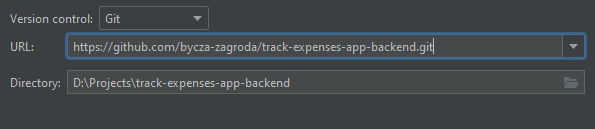
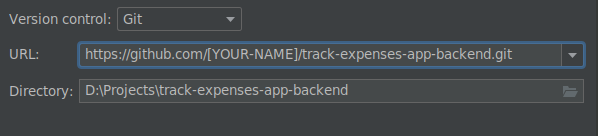
changes to the resolve conflict section

diff --git a/docs/githubwork/GITHUB_WORK.md b/docs/githubwork/GITHUB_WORK.md
@@ -35,11 +35,11 @@
 
 ## Local repository
 
-1. Clone repository with
+1. Clone from your repository with (in the examples we use the http method)
 
 ### Git
 
-`git clone https://github.com/bycza-zagroda/track-expenses-app-backend.git`
+`git clone https://github.com/[YOUR-GITHUB-NAME]/[REPOSITORY-NAME].git`
 
 ### IntelliJ IDEA
 
@@ -93,17 +93,18 @@ Additionally, If this is code review, commit should start: "code review: message
 
 ### For developers
 Before commit your changes you should resolve conflicts with upstream develop if any.
-1. Check if you have set up upstream.
+1. Check that you have set up upstream.
 ```shell
-mirek@dom:/tmp/fork-upstream-repository$ git remote -v
-origin  git@github.com:mirekgab/fork-upstream-repository.git (fetch)
-origin  git@github.com:mirekgab/fork-upstream-repository.git (push)
-upstream        https://github.com/mirekgab1/upstream-repository.git (fetch)
-upstream        https://github.com/mirekgab1/upstream-repository.git (push)
+git remote -v
+
+origin  git@github.com:[YOUR-GITHUB-NAME]/[REPOSITORY-NAME].git (fetch)
+origin  git@github.com:[YOUR-GITHUB-NAME]/[REPOSITORY-NAME].git (push)
+upstream        https://github.com/bycza-zagroda/[REPOSITORY-NAME].git (fetch)
+upstream        https://github.com/bycza-zagroda/[REPOSITORY-NAME].git (push)
 ```
-If you don't see the upstream repository execute the following command (you have to use bycza-zagroda repository.):
+If you don't see the upstream repository, execute the following command (as `upstream-repository` you should use `track-expenses-app-backend` or `track-expenses-app-frontend`):
 ```shell
-git remote add upstream https://github.com/mirekgab1/upstream-repository.git
+git remote add upstream https://github.com/bycza-zagroda/[REPOSITORY-NAME].git
 ```
 2. Fetch upstream branch.
 ```shell
@@ -113,19 +114,20 @@ git fetch upstream
 ```shell
 git checkout develop
 ```
-4. Merge upstream/develop into your local develop.
+4. Merge upstream/develop into your local develop, next update develop branch in fork repository.
 ```shell
 git merge upstream/develop
+git push origin develop
 ```
 5. Checkout to your fork's local branch - in this case, we use `feature/1-feature-name`
 ```shell
 git checkout feature/1-feature-name
 ```
-6. Merge the changes from the upstream develop branch into your local `feature/1-feature-name branch`.
+6. Merge the changes from the `develop` into your local `feature/1-feature-name` branch.
 ```shell
 git merge develop
 ```
-If you don't see any error, you can push your `feature/1-feature-name` and `develop` branch to your repository.
+If you don't see any error, you can push your `feature/1-feature-name` branch to your repository.
 
 If there are any existing conflicts, you'll see the following message:
 ```shell
@@ -158,13 +160,12 @@ Click Merge button and you see editor
 
 You have three panels here: the left one shows your version of the file, the right one shows the version of the file from upstream.
 In the middle you have final version. Decide if you want to keep only your branch's changes, keep only the upstream changes,
-or make a brand new change, which may incorporate changes from both branches. Delete the conflict markers `<<<<<<<`, `=======`, `>>>>>>>`
-and make the changes you want int the final merge.
-After resolve all conflict you can click Applay button.
+or make a brand new change, which may incorporate changes from both branches. 
+After resolve all conflict you can click Apply button.
 
 ![finish merging](images/img014_merge_revision_finish.png)
 
-Next commit and push you changes
+Next commit and push your changes to your fork repo.
 ```shell
 git commit -m "merging with upstream"
 git push
